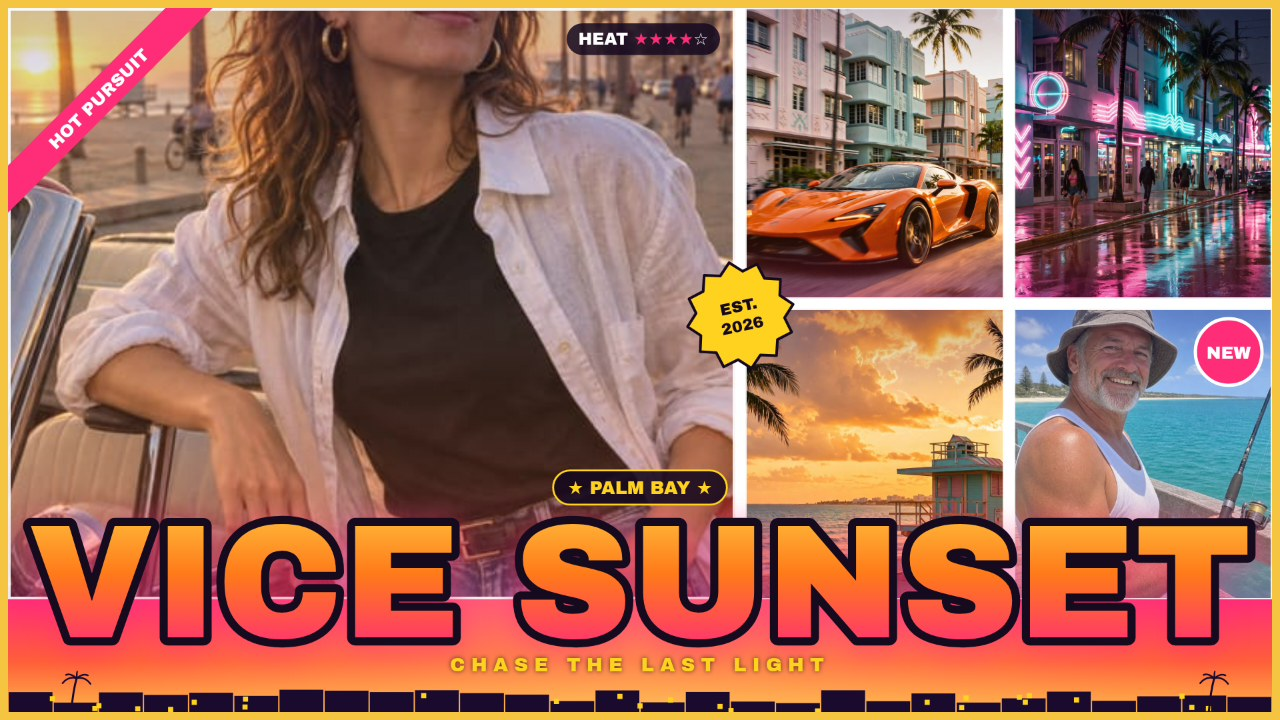
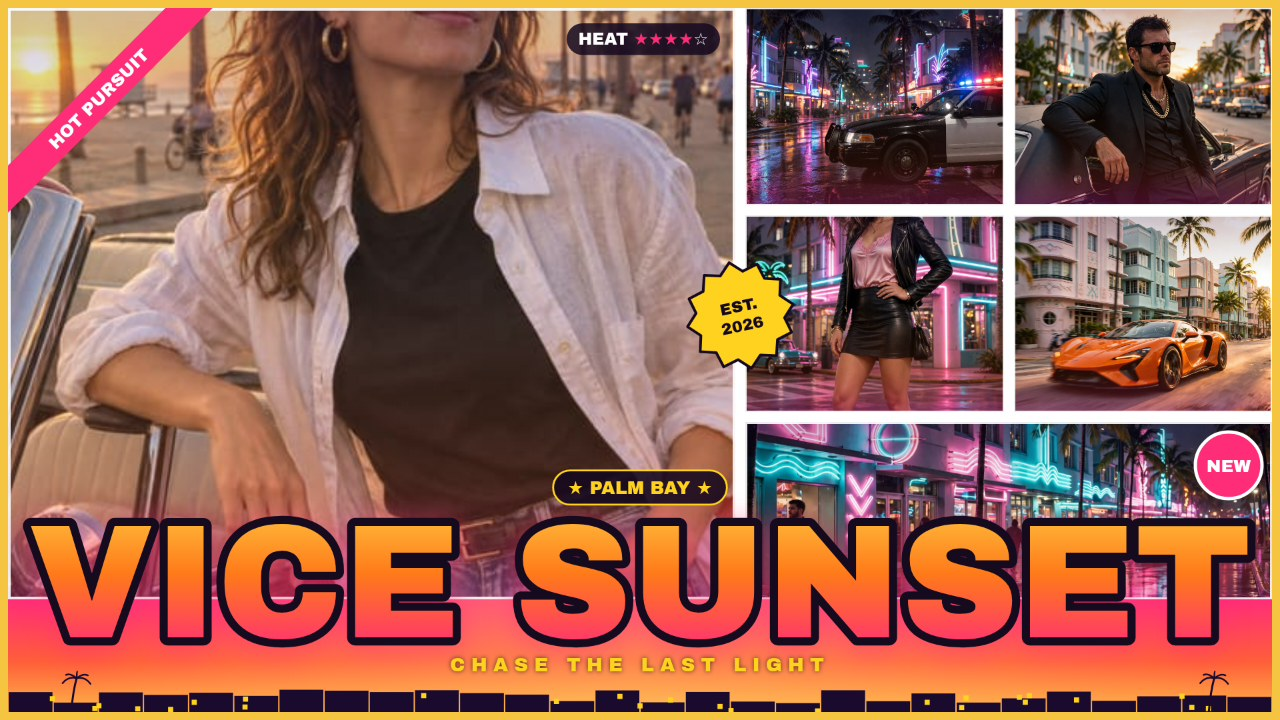
Vice Cover: 6-panel collage with police car, gangster & neon woman (hero + 2x2 grid + wide vignette, 8 samples)

Changed region(s): [[0.5625, 0.0, 1.0, 0.8556]]

diff --git a/app/src/cover.js b/app/src/cover.js
@@ -1,5 +1,6 @@
-// Vice Cover poster renderer: a GTA key-art collage — one big hero panel on the left, four
-// smaller panels on the right in a 2x2 grid, white gutters, a sunset banner along the foot
+// Vice Cover poster renderer: a GTA key-art collage — one big hero panel on the left, five
+// smaller panels on the right (a 2x2 grid plus one wide vignette along the bottom), white
+// gutters, a sunset banner along the foot
 // with a skyline silhouette, and a huge gradient title with a thick dark outline straddling
 // the collage and the banner. Decorative badges (location pill, EST. starburst, NEW circle,
 // HEAT stars and a diagonal ribbon) complete the poster look. Everything is drawn from
@@ -45,8 +46,11 @@ export function posterLayout(w, h) {
   const heroW = Math.round((iw - gap) * 0.58);
   const rightX = ix + heroW + gap;
   const rightW = iw - heroW - gap;
-  const topH = Math.round((collageH - gap) / 2);
-  const botH = collageH - topH - gap;
+  // Right column: a 2x2 grid of vignettes on top, one wide vignette along the bottom.
+  const wideH = Math.round(collageH * 0.30);
+  const gridH = collageH - wideH - gap;
+  const topH = Math.round((gridH - gap) / 2);
+  const botH = gridH - topH - gap;
   const vigW = Math.round((rightW - gap) / 2);
   return {
     frame, gap,
@@ -55,16 +59,17 @@ export function posterLayout(w, h) {
     v2: { x: rightX + vigW + gap, y: iy, w: rightW - vigW - gap, h: topH },
     v3: { x: rightX, y: iy + topH + gap, w: vigW, h: botH },
     v4: { x: rightX + vigW + gap, y: iy + topH + gap, w: rightW - vigW - gap, h: botH },
+    v5: { x: rightX, y: iy + gridH + gap, w: rightW, h: wideH },
     banner: { x: ix, y: iy + collageH, w: iw, h: bannerH },
     collageBottom: iy + collageH,
     inner: { x: ix, y: iy, w: iw, h: ih },
   };
 }
 
-/** Which panel (0 hero, 1-4 vignettes) contains canvas point (x, y), or -1. */
+/** Which panel (0 hero, 1-5 vignettes) contains canvas point (x, y), or -1. */
 export function panelAt(L, x, y) {
-  const rects = [L.hero, L.v1, L.v2, L.v3, L.v4];
-  for (let i = 0; i < 5; i++) {
+  const rects = [L.hero, L.v1, L.v2, L.v3, L.v4, L.v5];
+  for (let i = 0; i < 6; i++) {
     const r = rects[i];
     if (x >= r.x && x <= r.x + r.w && y >= r.y && y <= r.y + r.h) return i;
   }
@@ -358,10 +363,10 @@ function drawBadges(ctx, L, state, grade, w) {
   ctx.fillText('2026', 0, sr * 0.20);
   ctx.restore();
 
-  // Pink NEW circle on the bottom-right vignette (v4).
+  // Pink NEW circle on the wide bottom vignette (v5).
   const nr = Math.max(16, Math.round(w * 0.026));
-  const ncx = L.v4.x + L.v4.w - nr - Math.round(w * 0.008);
-  const ncy = L.v4.y + nr + Math.round(w * 0.008);
+  const ncx = L.v5.x + L.v5.w - nr - Math.round(w * 0.008);
+  const ncy = L.v5.y + nr + Math.round(w * 0.008);
   ctx.save();
   ctx.beginPath();
   ctx.arc(ncx, ncy, nr, 0, Math.PI * 2);
@@ -380,7 +385,7 @@ function drawBadges(ctx, L, state, grade, w) {
 
 /**
  * Draws the whole poster onto the canvas at its own size.
- * state: { grade, title, subtitle, badge, panels: [{img, zoom, ox, oy} x5] }
+ * state: { grade, title, subtitle, badge, panels: [{img, zoom, ox, oy} x6] }
  * opts: { selected } — a panel index to outline for the editor (never on export).
  */
 export function drawPoster(canvas, state, opts = {}) {
@@ -395,6 +400,7 @@ export function drawPoster(canvas, state, opts = {}) {
   drawPhotoPanel(ctx, L.v2, state.panels[2], grade);
   drawPhotoPanel(ctx, L.v3, state.panels[3], grade);
   drawPhotoPanel(ctx, L.v4, state.panels[4], grade);
+  drawPhotoPanel(ctx, L.v5, state.panels[5], grade);
   drawBanner(ctx, L.banner, grade);
   drawTitleBlock(ctx, L, state, grade, w);
   drawBadges(ctx, L, state, grade, w);
@@ -404,7 +410,7 @@ export function drawPoster(canvas, state, opts = {}) {
   ctx.strokeRect(L.frame / 2, L.frame / 2, w - L.frame, h - L.frame);
   // Editor-only selection outline (never drawn on export).
   if (typeof opts.selected === 'number' && opts.selected >= 0) {
-    const rects = [L.hero, L.v1, L.v2, L.v3, L.v4];
+    const rects = [L.hero, L.v1, L.v2, L.v3, L.v4, L.v5];
     const r = rects[opts.selected];
     ctx.save();
     ctx.strokeStyle = grade.accent;

diff --git a/app/src/main.js b/app/src/main.js
@@ -1,4 +1,4 @@
-// Wires the page: pick photos for the five panels, drag to pan, zoom each panel, write the
+// Wires the page: pick photos for the six panels, drag to pan, zoom each panel, write the
 // title, subtitle and location badge, pick a colour grade and an export size, and export the
 // poster as a PNG. A `?shot=` query sets up a fixed scene for a screenshot (./shots.js).
 import { drawPoster, posterLayout, panelAt, GRADES } from './cover.js';
@@ -16,16 +16,17 @@ const titleInput = document.getElementById('title');
 const subtitleInput = document.getElementById('subtitle');
 const badgeInput = document.getElementById('badge');
 
-const PANEL_KEYS = ['hero', 'v1', 'v2', 'v3', 'v4'];
-// Five distinct sample photos, one per panel: hero = woman by the convertible (boulevard),
-// top-left = orange sports car, top-right = neon street, bottom-left = beach sunset,
-// bottom-right = man fishing on the pier.
+const PANEL_KEYS = ['hero', 'v1', 'v2', 'v3', 'v4', 'v5'];
+// Six distinct sample photos, one per panel: hero = woman by the convertible (boulevard),
+// top-left = police car under neon, top-right = gangster at sunset, bottom-left = glamorous
+// woman on a neon street, bottom-right = orange sports car, wide bottom = neon street.
 const DEFAULT_CROPS = [
   { sample: 'boulevard', zoom: 1.15, ox: 0, oy: 0 },
+  { sample: 'policecar', zoom: 1.15, ox: 0, oy: 0 },
+  { sample: 'gangster', zoom: 1.15, ox: 0, oy: 0 },
+  { sample: 'jablay', zoom: 1.15, ox: 0, oy: 0 },
   { sample: 'sportscar', zoom: 1.15, ox: 0, oy: 0 },
   { sample: 'neonstreet', zoom: 1.15, ox: 0, oy: 0 },
-  { sample: 'beach', zoom: 1.15, ox: 0, oy: 0 },
-  { sample: 'pier', zoom: 1.15, ox: 0, oy: 0 },
 ];
 
 const state = {
@@ -55,7 +56,7 @@ function render() {
 }
 
 function syncZoomSliders() {
-  for (let i = 0; i < 5; i++) {
+  for (let i = 0; i < 6; i++) {
     document.getElementById(`zoom-${PANEL_KEYS[i]}`).value = String(state.panels[i].zoom);
   }
 }
@@ -76,7 +77,7 @@ function setGrade(grade) {
 }
 
 async function loadDefaults() {
-  for (let i = 0; i < 5; i++) {
+  for (let i = 0; i < 6; i++) {
     state.panels[i].img = await loadImage(`samples/${DEFAULT_CROPS[i].sample}.jpg`);
   }
   render();
@@ -105,7 +106,7 @@ PANEL_KEYS.forEach((key, i) => {
 document.getElementById('fill-all').addEventListener('click', () => {
   const hero = state.panels[0].img;
   if (!hero) return;
-  for (let i = 1; i < 5; i++) {
+  for (let i = 1; i < 6; i++) {
     state.panels[i].img = hero;
     state.panels[i].zoom = 1;
     state.panels[i].ox = 0;
@@ -116,7 +117,7 @@ document.getElementById('fill-all').addEventListener('click', () => {
 });
 
 document.getElementById('reset-samples').addEventListener('click', async () => {
-  for (let i = 0; i < 5; i++) {
+  for (let i = 0; i < 6; i++) {
     state.panels[i].img = await loadImage(`samples/${DEFAULT_CROPS[i].sample}.jpg`);
     state.panels[i].zoom = DEFAULT_CROPS[i].zoom;
     state.panels[i].ox = DEFAULT_CROPS[i].ox;
@@ -167,7 +168,7 @@ canvas.addEventListener('pointerdown', (e) => {
   state.selected = i;
   render();
   const panel = state.panels[i];
-  const r = [layout.hero, layout.v1, layout.v2, layout.v3, layout.v4][i];
+  const r = [layout.hero, layout.v1, layout.v2, layout.v3, layout.v4, layout.v5][i];
   const iw = panel.img ? panel.img.naturalWidth : 1;
   const ih = panel.img ? panel.img.naturalHeight : 1;
   const base = Math.max(r.w / iw, r.h / ih) * panel.zoom;
@@ -196,8 +197,8 @@ if (document.fonts) {
 const shot = new URLSearchParams(location.search).get('shot');
 if (shot) {
   runShot(shot, new URLSearchParams(location.search), async (scene) => {
-    const names = [scene.hero, scene.v1, scene.v2, scene.v3, scene.v4];
-    for (let i = 0; i < 5; i++) {
+    const names = [scene.hero, scene.v1, scene.v2, scene.v3, scene.v4, scene.v5];
+    for (let i = 0; i < 6; i++) {
       state.panels[i].img = await loadImage(`samples/${names[i]}.jpg`);
       state.panels[i].zoom = scene.zoom ?? DEFAULT_CROPS[i].zoom;
       state.panels[i].ox = scene.ox?.[i] ?? DEFAULT_CROPS[i].ox;

diff --git a/app/src/shots.js b/app/src/shots.js
@@ -1,15 +1,16 @@
 // Fixed scenes for screenshots: ?shot=editor shows the page with sample photos loaded;
-// ?shot=cover shows the cover alone. Query params: photo (hero sample), v1/v2/v3/v4
+// ?shot=cover shows the cover alone. Query params: photo (hero sample), v1/v2/v3/v4/v5
 // (vignette samples), caption (title), sub (subtitle), badge (location pill), grade, size.
 // window.__shotReady is set once the scene is painted with the display font loaded.
 export async function runShot(shot, query, setup) {
   if (shot === 'cover') document.body.classList.add('shot-cover');
   const scene = {
     hero: query.get('photo') ?? 'boulevard',
-    v1: query.get('v1') ?? 'sportscar',
-    v2: query.get('v2') ?? 'neonstreet',
-    v3: query.get('v3') ?? 'beach',
-    v4: query.get('v4') ?? 'pier',
+    v1: query.get('v1') ?? 'policecar',
+    v2: query.get('v2') ?? 'gangster',
+    v3: query.get('v3') ?? 'jablay',
+    v4: query.get('v4') ?? 'sportscar',
+    v5: query.get('v5') ?? 'neonstreet',
     title: query.get('caption') ?? 'VICE SUNSET',
     subtitle: query.get('sub') ?? 'CHASE THE LAST LIGHT',
     badge: query.get('badge') ?? 'PALM BAY',

diff --git a/app/index.html b/app/index.html
@@ -21,6 +21,7 @@
         <label>Vignette 2 <input id="photo-v2" type="file" accept="image/*"></label>
         <label>Vignette 3 <input id="photo-v3" type="file" accept="image/*"></label>
         <label>Vignette 4 <input id="photo-v4" type="file" accept="image/*"></label>
+        <label>Vignette 5 <input id="photo-v5" type="file" accept="image/*"></label>
       </div>
       <div class="row">
         <button id="fill-all" type="button">Hero photo in all panels</button>
@@ -36,6 +37,7 @@
       <label>Vignette 2 zoom <input id="zoom-v2" type="range" min="1" max="3" step="0.05" value="1"></label>
       <label>Vignette 3 zoom <input id="zoom-v3" type="range" min="1" max="3" step="0.05" value="1"></label>
       <label>Vignette 4 zoom <input id="zoom-v4" type="range" min="1" max="3" step="0.05" value="1"></label>
+      <label>Vignette 5 zoom <input id="zoom-v5" type="range" min="1" max="3" step="0.05" value="1"></label>
     </fieldset>
 
     <fieldset>
